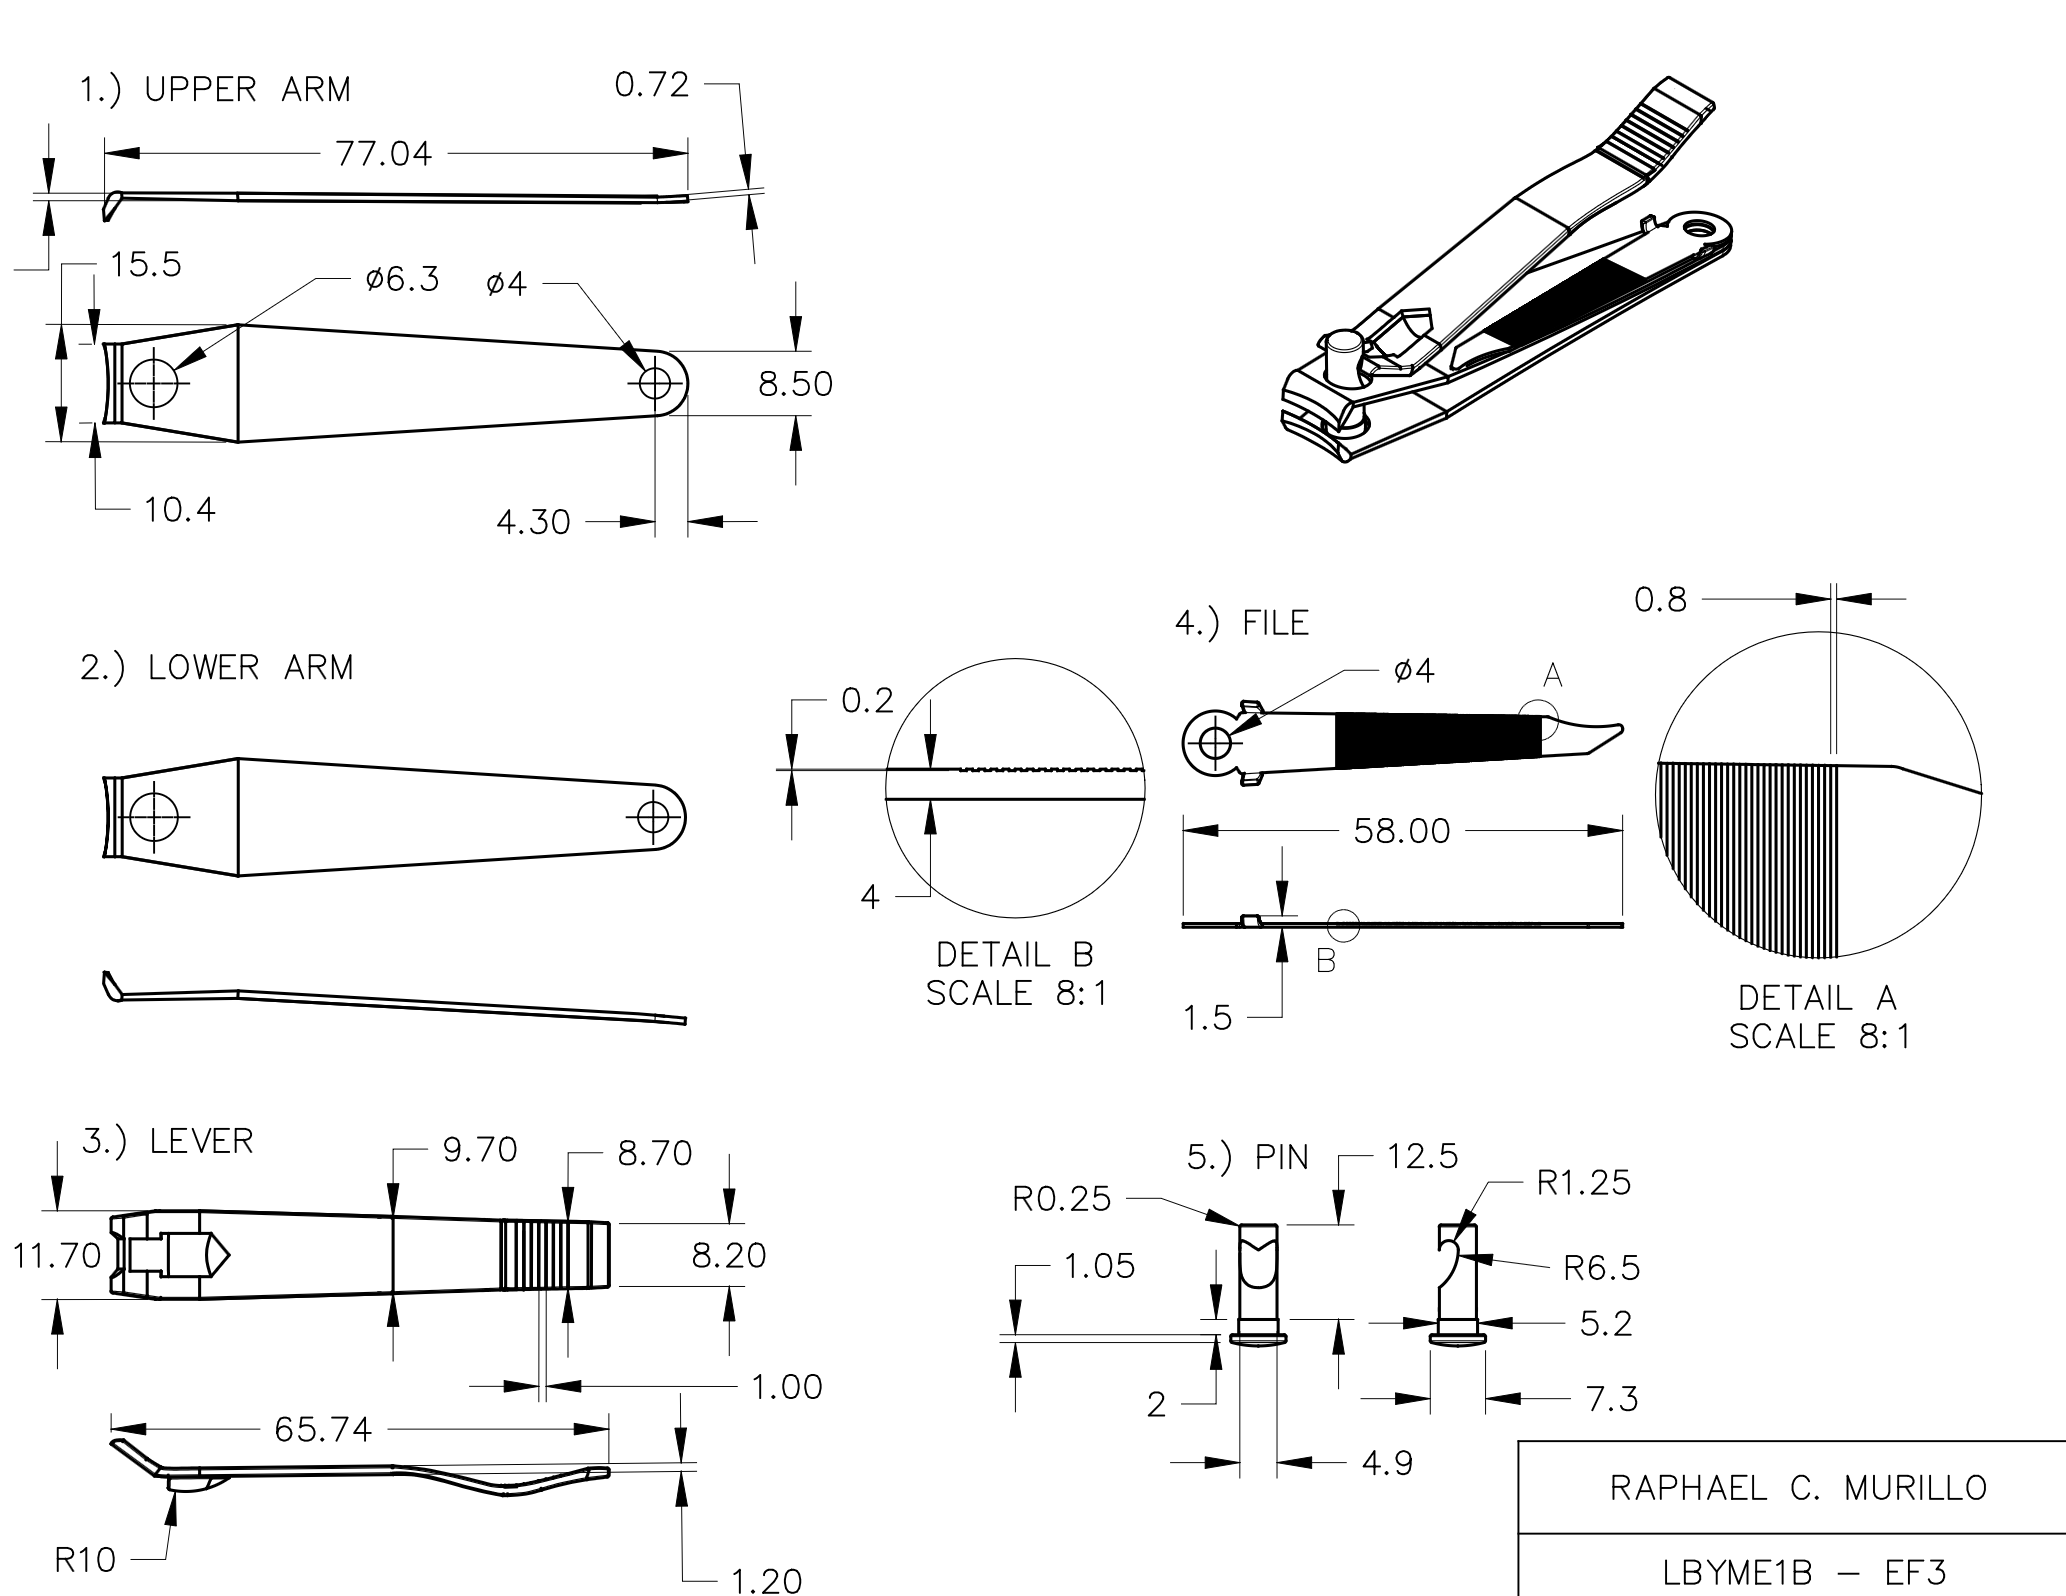
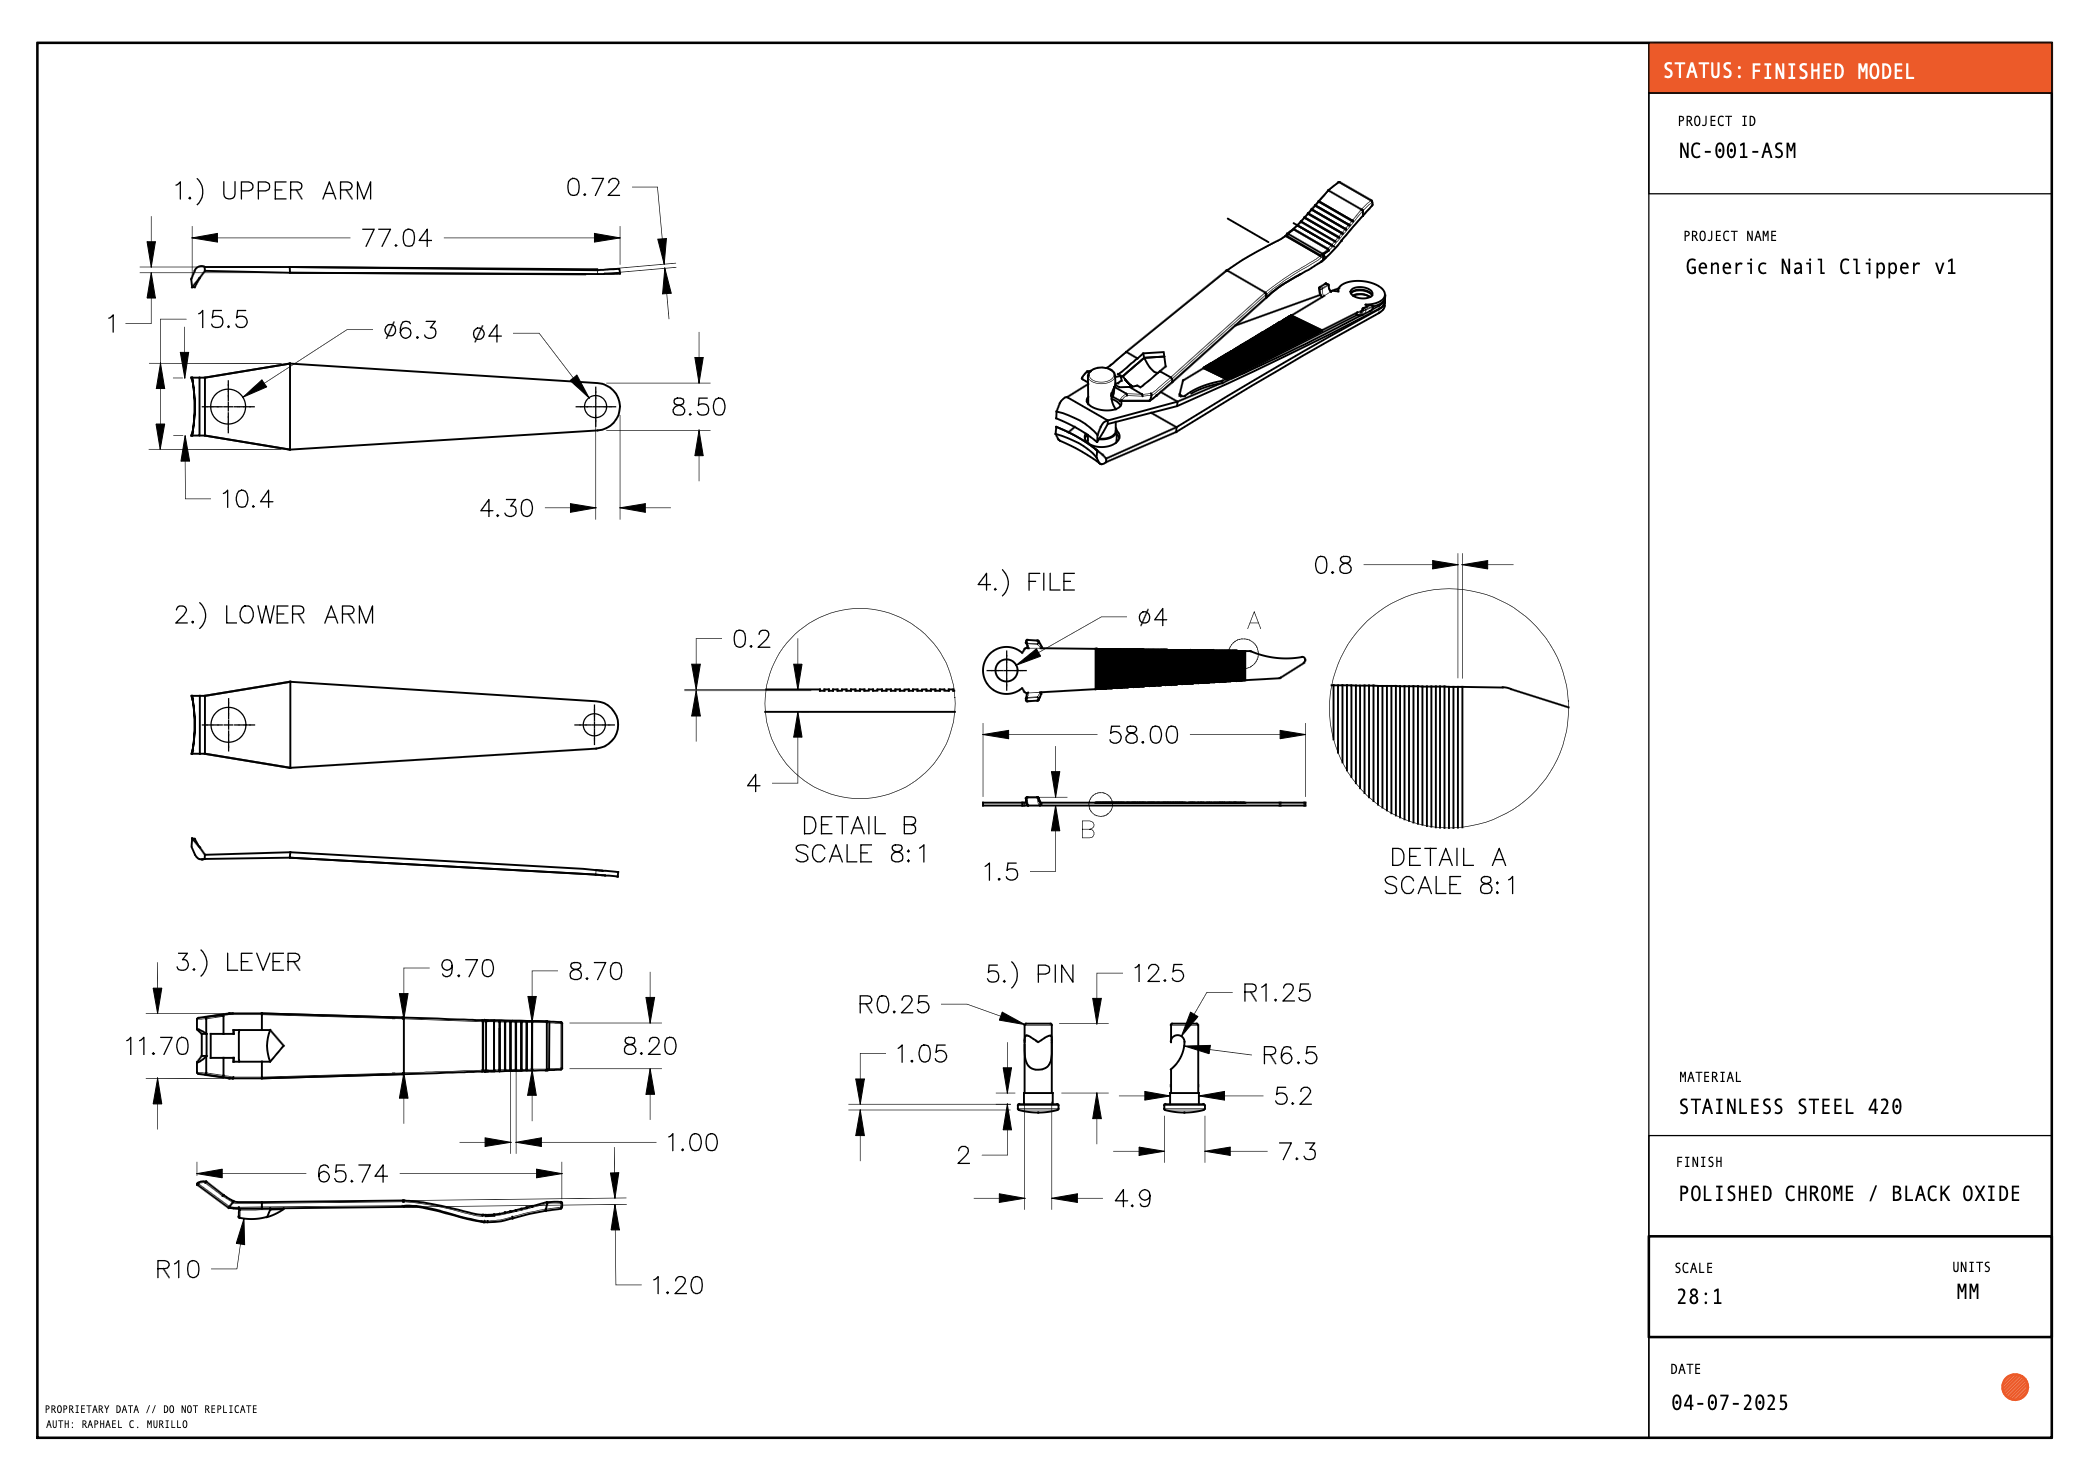
add: nail clipper replica project

diff --git a/store/projectsData.ts b/store/projectsData.ts
@@ -50,96 +50,85 @@ export interface ProjectData {
 export const projectsData: ProjectData[] = [
     {
         id: "001",
-        name: "Cycloidal Drive Actuator",
-        type: "Physical",
-        role: "Solo Designer / Engineer",
-        duration: "8 Weeks",
-        tools: "SolidWorks, Fusion 360, Cura, Caliper",
-        status: "Functional Prototype",
+        name: "Nail Clipper Replica",
+        featured: true,
+        type: "Digital",
+        role: "Reverse Engineer",
+        duration: "6 Days",
+        tools: "Onshape, AutoCAD, Blender",
+        status: "Case Study",
         year: "2025",
-        category: "PROTOTYPE",
-        skills: "SOLIDWORKS / FUSION 360",
+        category: "CAD / REVERSE ENG",
+        skills: "MODELLING / RENDERING / DRAFTING",
         description:
-            "High-torque robotic actuator with 20:1 reduction ratio. 3D printed ABS.",
-        emoji: "🔧",
-        tagline: "Achieved 20:1 torque multiplication at 94% cost savings",
+            "Reverse-engineered mechanical assembly with focus on industrial rendering and technical documentation.",
+        emoji: "✂",
+        tagline: "Turning a physical product into a digital twin",
         background:
-            "Robotic applications require high-torque, low-backlash actuators in compact form factors. Commercial cycloidal drives are prohibitively expensive for student projects.",
+            "Commonplace objects often hide clever engineering. The objective was to dissect a standard nail clipper to understand its compound lever mechanism and document it to an industrial manufacturing standard.",
         execution:
-            "Designed and fabricated a 3D-printable cycloidal drive with 20:1 reduction ratio achieving <0.5° backlash in a 60mm diameter envelope using FDM-printed ABS.",
-        metrics: [
-            { label: "Reduction Ratio", value: "20:1" },
-            { label: "Backlash", value: "<0.5°" },
-            { label: "Max Torque", value: "15 Nm" },
-            { label: "Weight", value: "180g" },
-            { label: "Cost", value: "$12 USD" },
-        ],
+            "Recreated the assembly in Onshape with G2 continuous surfacing. Generated technical draft in AutoCAD and produced editorial-grade 'product launch' renders in Blender Cycles.",
+        metrics: [{ label: "Part Count", value: "5" }],
         highlights: [
-            "Parametric tooth profile generation using involute equations",
-            "Tolerance analysis for print-in-place assembly",
-            "Custom eccentric bearing mount to minimize wobble",
-            "Integrated torque testing rig for validation",
+            "Reverse engineering of compound lever mechanism",
+            "3D modeling for replicating ergonomic lever curvature",
+            "Interference detection validating mechanism clearance",
+            "Technical drawing via AutoCAD",
+            "Industrial rendering with Blender Cycles",
         ],
         images: [
             {
                 id: 1,
-                caption: "Isometric render showing assembled configuration",
+                caption: "Studio 'Hero' render in Polished Chrome",
                 type: "render",
-                src: "/images/works/001/drawing.png",
+                src: "/images/works/001/hero.png",
             },
             {
                 id: 2,
-                caption: "Exploded view of drive components",
+                caption: "Exploded view showing assembly order",
                 type: "exploded",
-                src: "/images/works/001/sample.png",
+                src: "/images/works/001/Exploded.png",
             },
             {
                 id: 3,
-                caption: "Cross-section highlighting eccentric mechanism",
-                type: "section view",
-                src: "/images/works/001/final.png",
+                caption: "Manufacturing technical drawing (AutoCAD)",
+                type: "detail",
+                src: "/images/works/001/Drawing.png",
             },
             {
                 id: 4,
-                caption: "Tooth profile detail with measurement annotations",
-                type: "detail",
-                src: "/images/works/001/final.png",
+                caption: "Section analysis showing internal mechanism",
+                type: "section view",
+                src: "/images/works/001/section.png",
             },
             {
                 id: 5,
-                caption: "Physical prototype during torque testing",
+                caption: "Physical reference object",
                 type: "photo",
-                src: "/images/works/001/final.png",
-            },
-            {
-                id: 6,
-                caption: "Backlash measurement results over 50 cycles",
-                type: "graph",
-                src: "/images/works/001/final.png",
+                src: "/images/works/001/reference.png",
             },
         ],
         impactMetrics: [
             {
-                label: "Cost Efficiency",
-                before: "$200",
-                after: "$12",
-                improvement: "94% savings",
+                label: "Visual Fidelity",
+                before: "Physical",
+                after: "Digital",
+                improvement: "1:1 Match",
             },
         ],
         beforeAfter: [
             {
                 id: 1,
-                beforeCaption: "Initial hand sketch",
-                afterCaption: "Final CAD model",
-                beforeSrc: "/images/works/001/drawing.png",
-                afterSrc: "/images/works/001/final.png",
+                beforeCaption: "Physical Reference",
+                afterCaption: "Digital Twin",
+                beforeSrc: "/images/works/001/reference.png",
+                afterSrc: "/images/works/001/hero.png",
             },
         ],
     },
     {
         id: "002",
         name: "Iris Aperture Mechanism",
-        featured: true,
         type: "Physical",
         role: "Lead Designer",
         duration: "6 Weeks",
